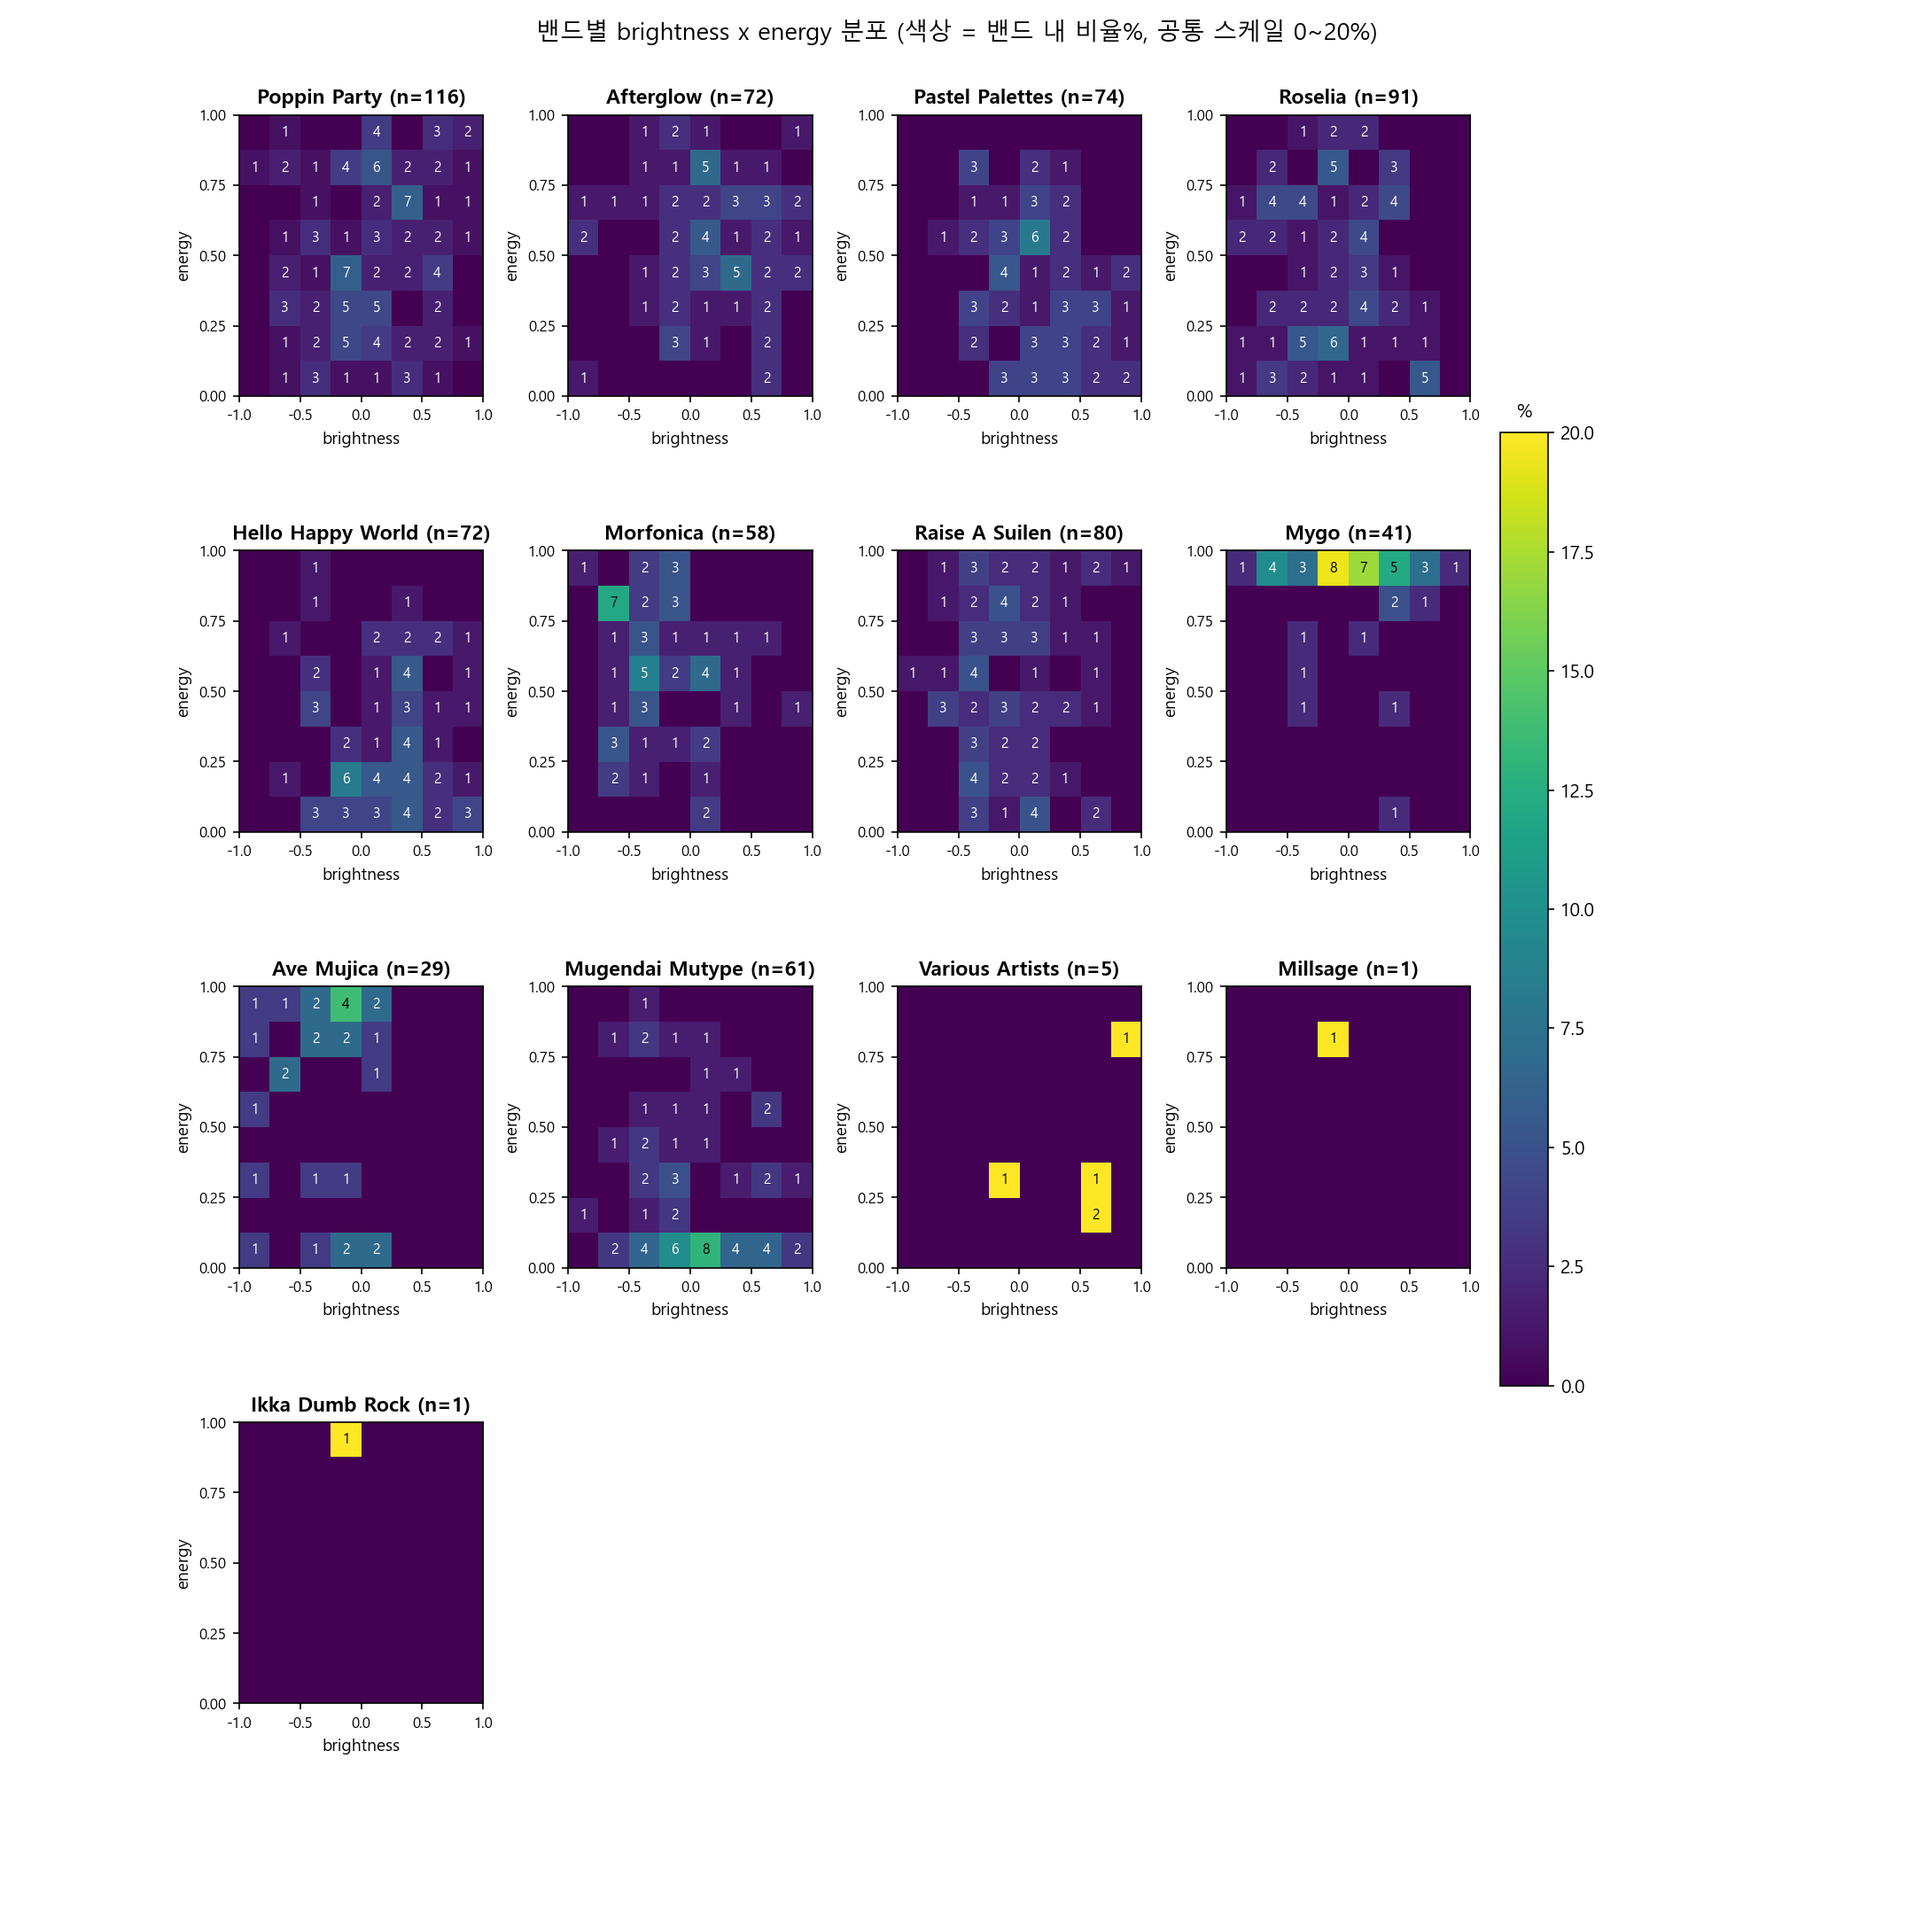
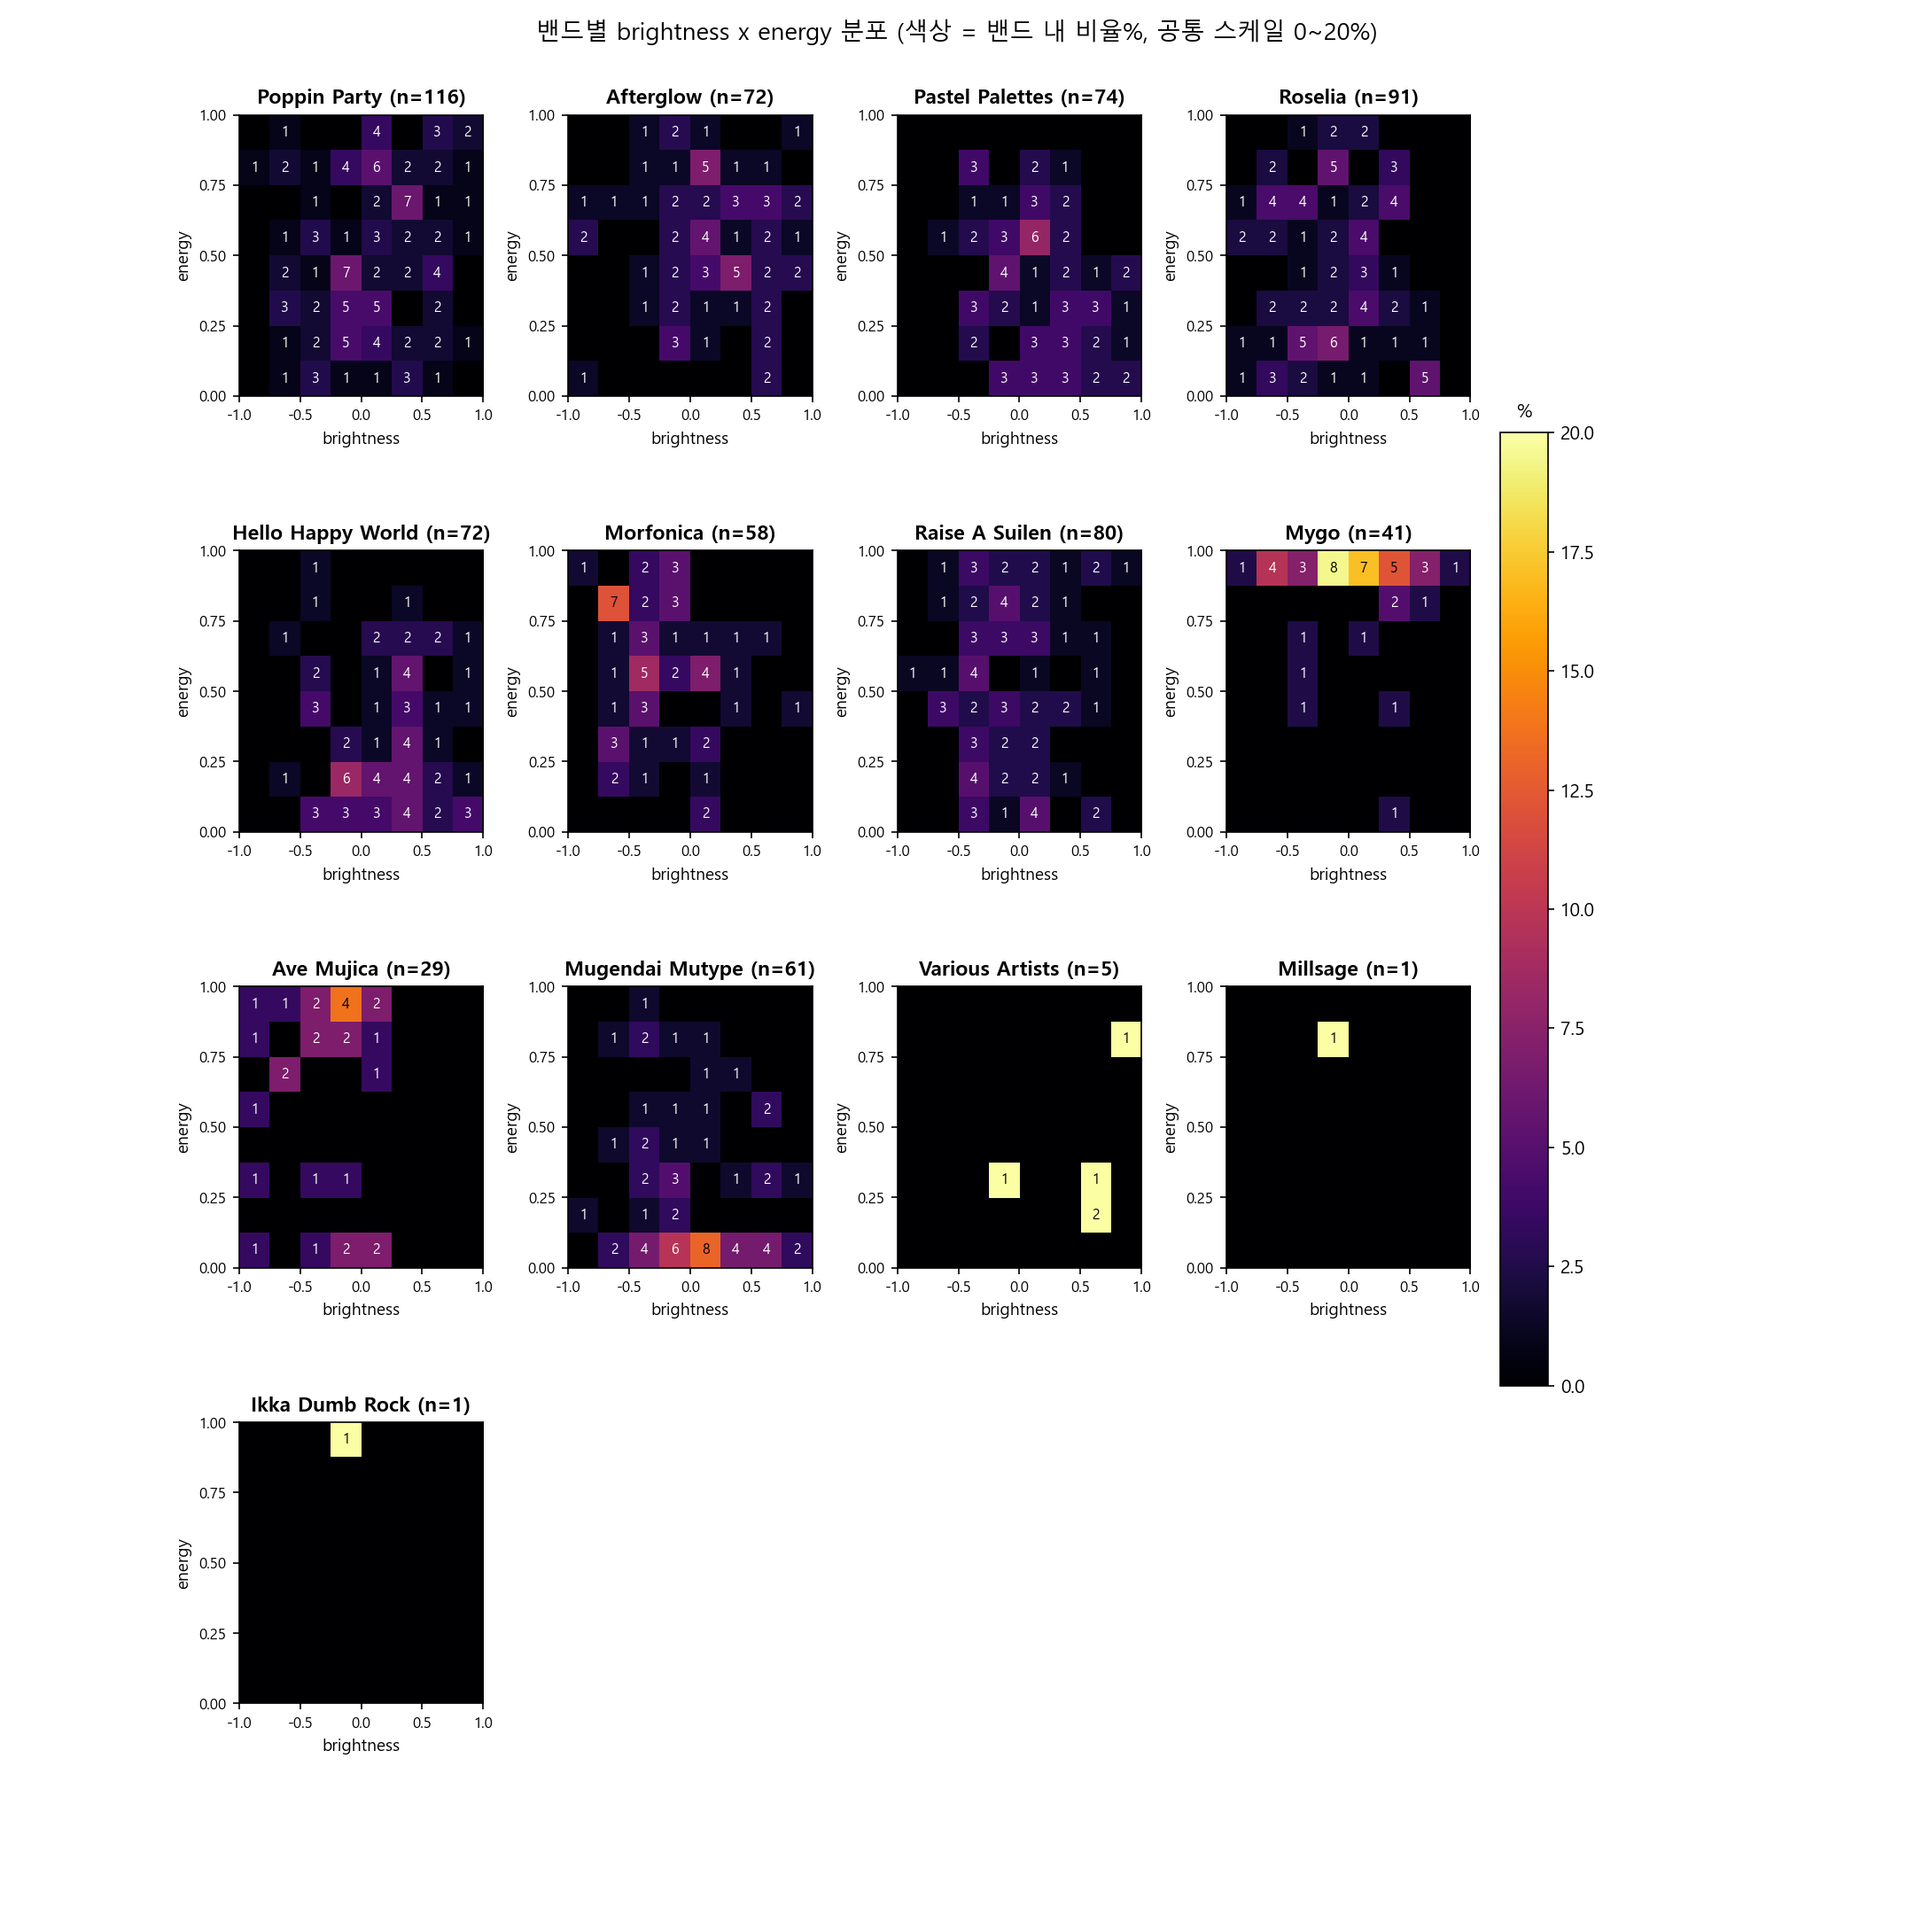
style(energy_full_validation): 히트맵 컬러맵 viridis → inferno
가시성이 약하다는 피드백 반영 — 저빈도(검정)~고빈도(밝은 노랑) 대비를 더 극적으로.
4개 후보(plasma/inferno/magma/hot) 비교 후 inferno 채택(최고값에서도 디테일 안 뭉개짐).

diff --git a/topic/energy_full_validation/src/method-1/plot_heatmaps.py b/topic/energy_full_validation/src/method-1/plot_heatmaps.py
@@ -54,7 +54,7 @@ def build_grid(items):
     grid, _, _ = np.histogram2d(energies, brightness, bins=[e_edges, b_edges])
     return grid  # grid[energy_row, brightness_col]
 
-CMAP = "viridis"  # 어두운 보라(적음)→밝은 노랑(많음), 저빈도/고빈도 대비가 커서 시인성 좋음
+CMAP = "inferno"  # 검정(적음)→보라/빨강/노랑(많음), viridis보다 극적인 대비
 
 def draw_heatmap(ax, grid, title, annotate_pct=False, n=None, vmax=None):
     data = grid / n * 100 if annotate_pct else grid
@@ -76,7 +76,7 @@ def draw_heatmap(ax, grid, title, annotate_pct=False, n=None, vmax=None):
             cx = -1 + (j + 0.5) * (2 / B_BINS)
             cy = (i + 0.5) * (1 / E_BINS)
             frac = data[i, j] / vmax_eff
-            color = "black" if frac > 0.55 else "white"  # viridis: 고빈도=밝은 노랑→검정 글씨
+            color = "black" if frac > 0.55 else "white"  # inferno: 고빈도=밝은 노랑→검정 글씨
             label = f"{int(v)}" if not annotate_pct else f"{int(v)}"
             ax.text(cx, cy, label, ha="center", va="center", fontsize=7.5, color=color)
     return im

diff --git a/topic/energy_full_validation/src/method-1/plot_energyfull_brightness_byband.py b/topic/energy_full_validation/src/method-1/plot_energyfull_brightness_byband.py
@@ -67,7 +67,7 @@ for idx, band in enumerate(band_order):
     br = np.array([r["brightness"] for r in items])
     grid, _, _ = np.histogram2d(ef, br, bins=[e_edges, b_edges])
     pct = grid / n * 100
-    im = ax.imshow(pct, origin="lower", cmap="viridis", aspect="auto", extent=[-1, 1, 0, 1], vmin=0, vmax=PCT_MAX)
+    im = ax.imshow(pct, origin="lower", cmap="inferno", aspect="auto", extent=[-1, 1, 0, 1], vmin=0, vmax=PCT_MAX)
     label = band.replace("_", " ").title()
     ax.set_title(f"{label} (n={n})", fontsize=11, fontweight="bold")
     ax.set_xlabel("brightness", fontsize=9)
@@ -82,7 +82,7 @@ for idx, band in enumerate(band_order):
                 continue
             cx = -1 + (j + 0.5) * (2 / B_BINS)
             cy = (i + 0.5) * (1 / E_BINS)
-            color = "black" if pct[i, j] / PCT_MAX > 0.55 else "white"  # viridis: 고빈도=밝은 노랑→검정 글씨
+            color = "black" if pct[i, j] / PCT_MAX > 0.55 else "white"  # inferno: 고빈도=밝은 노랑→검정 글씨
             ax.text(cx, cy, f"{int(v)}", ha="center", va="center", fontsize=7.5, color=color)
     last_im = im
 

diff --git a/topic/energy_full_validation/src/method-1/plot_energyfull_brightness.py b/topic/energy_full_validation/src/method-1/plot_energyfull_brightness.py
@@ -52,7 +52,7 @@ b_edges = np.linspace(-1, 1, B_BINS + 1)
 grid, _, _ = np.histogram2d(energy_full, brightness, bins=[e_edges, b_edges])
 
 fig, ax = plt.subplots(figsize=(6.4, 6.4), dpi=150)
-im = ax.imshow(grid, origin="lower", cmap="viridis", aspect="auto", extent=[-1, 1, 0, 1])
+im = ax.imshow(grid, origin="lower", cmap="inferno", aspect="auto", extent=[-1, 1, 0, 1])
 ax.set_title(f"energy_full x brightness (n={len(rows)}, r={r_val:.3f})", fontsize=12, fontweight="bold")
 ax.set_xlabel("brightness", fontsize=10)
 ax.set_ylabel("energy_full", fontsize=10)
@@ -66,7 +66,7 @@ for i in range(E_BINS):
             continue
         cx = -1 + (j + 0.5) * (2 / B_BINS)
         cy = (i + 0.5) * (1 / E_BINS)
-        color = "black" if v / vmax > 0.55 else "white"  # viridis: 고빈도=밝은 노랑→검정 글씨
+        color = "black" if v / vmax > 0.55 else "white"  # inferno: 고빈도=밝은 노랑→검정 글씨
         ax.text(cx, cy, f"{int(v)}", ha="center", va="center", fontsize=8.5, color=color)
 cbar = fig.colorbar(im, ax=ax, shrink=0.85)
 cbar.ax.set_title("곡 수", fontsize=9, pad=8)
